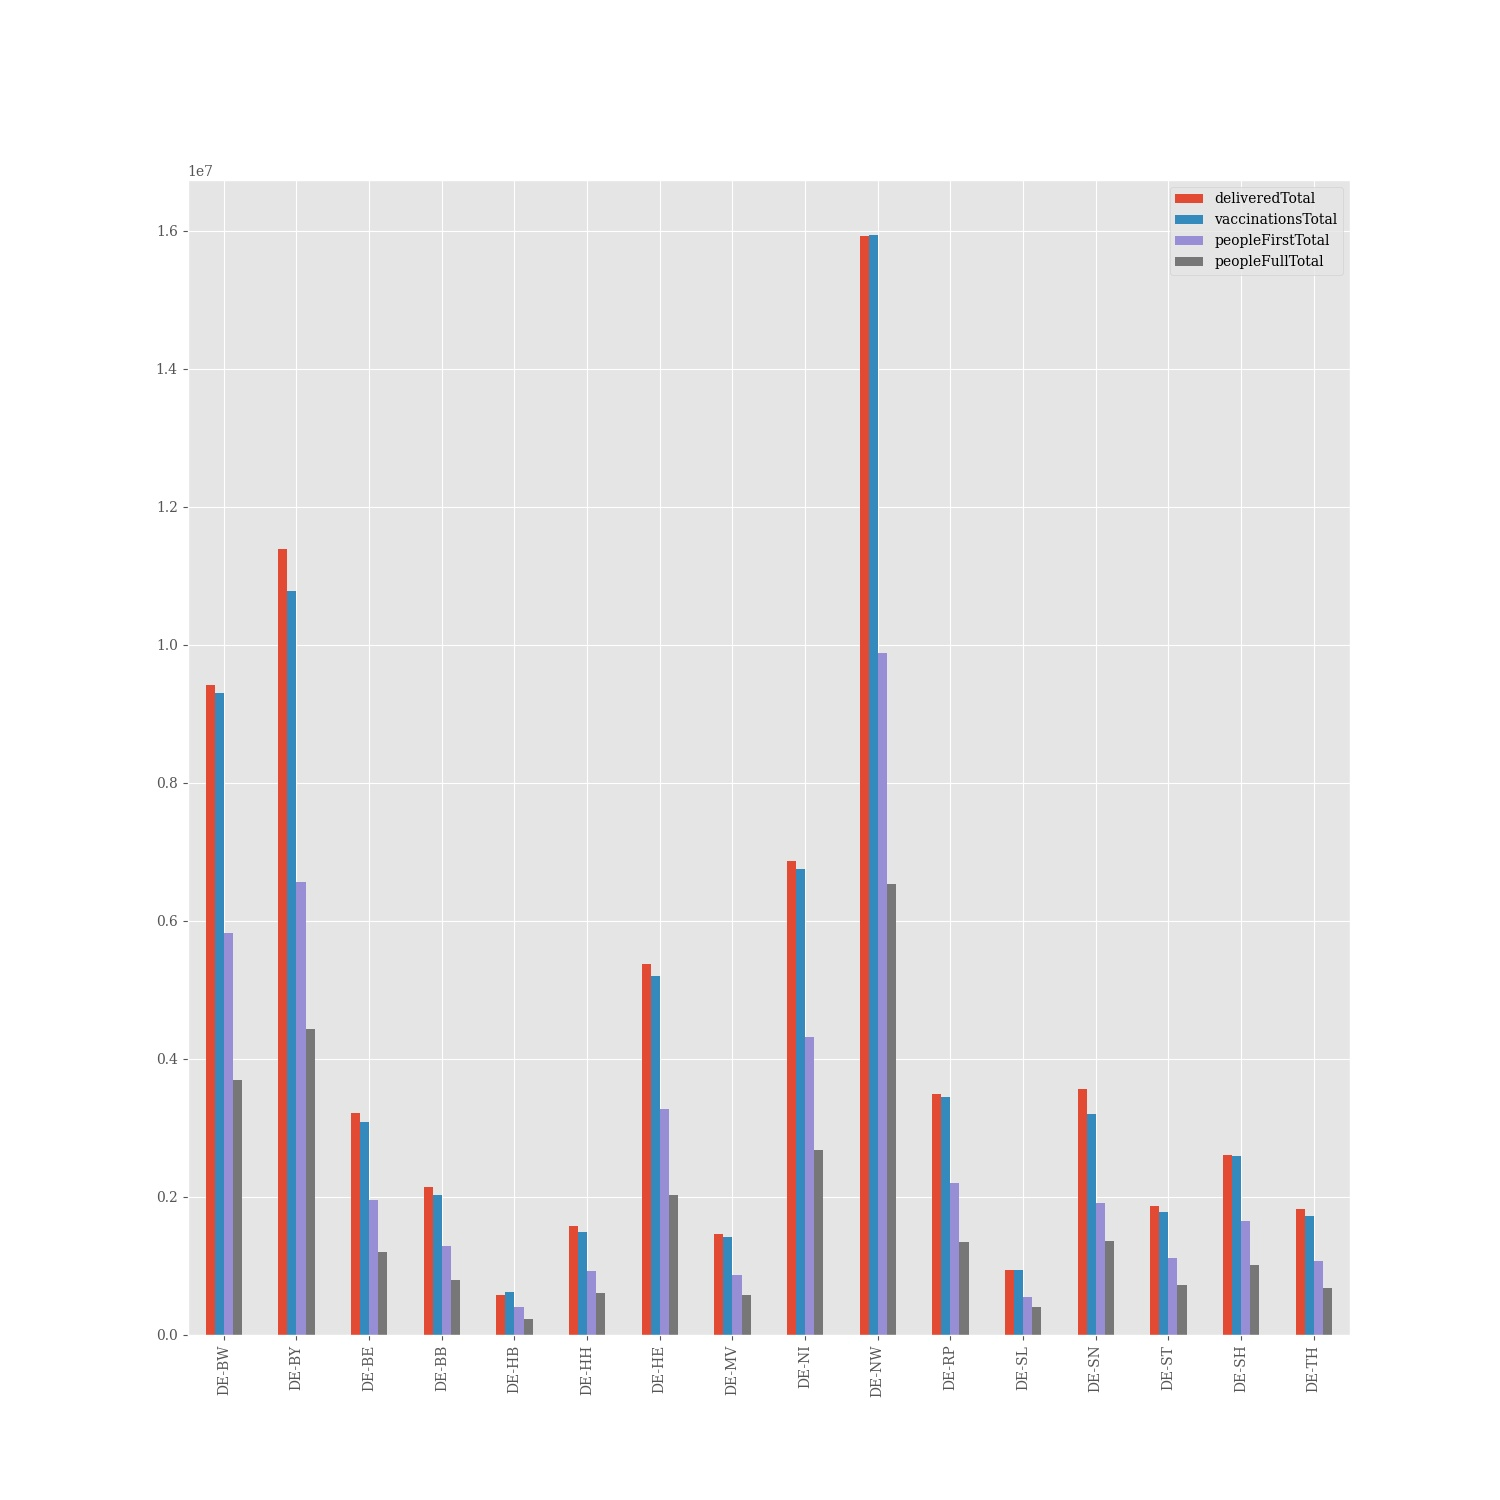
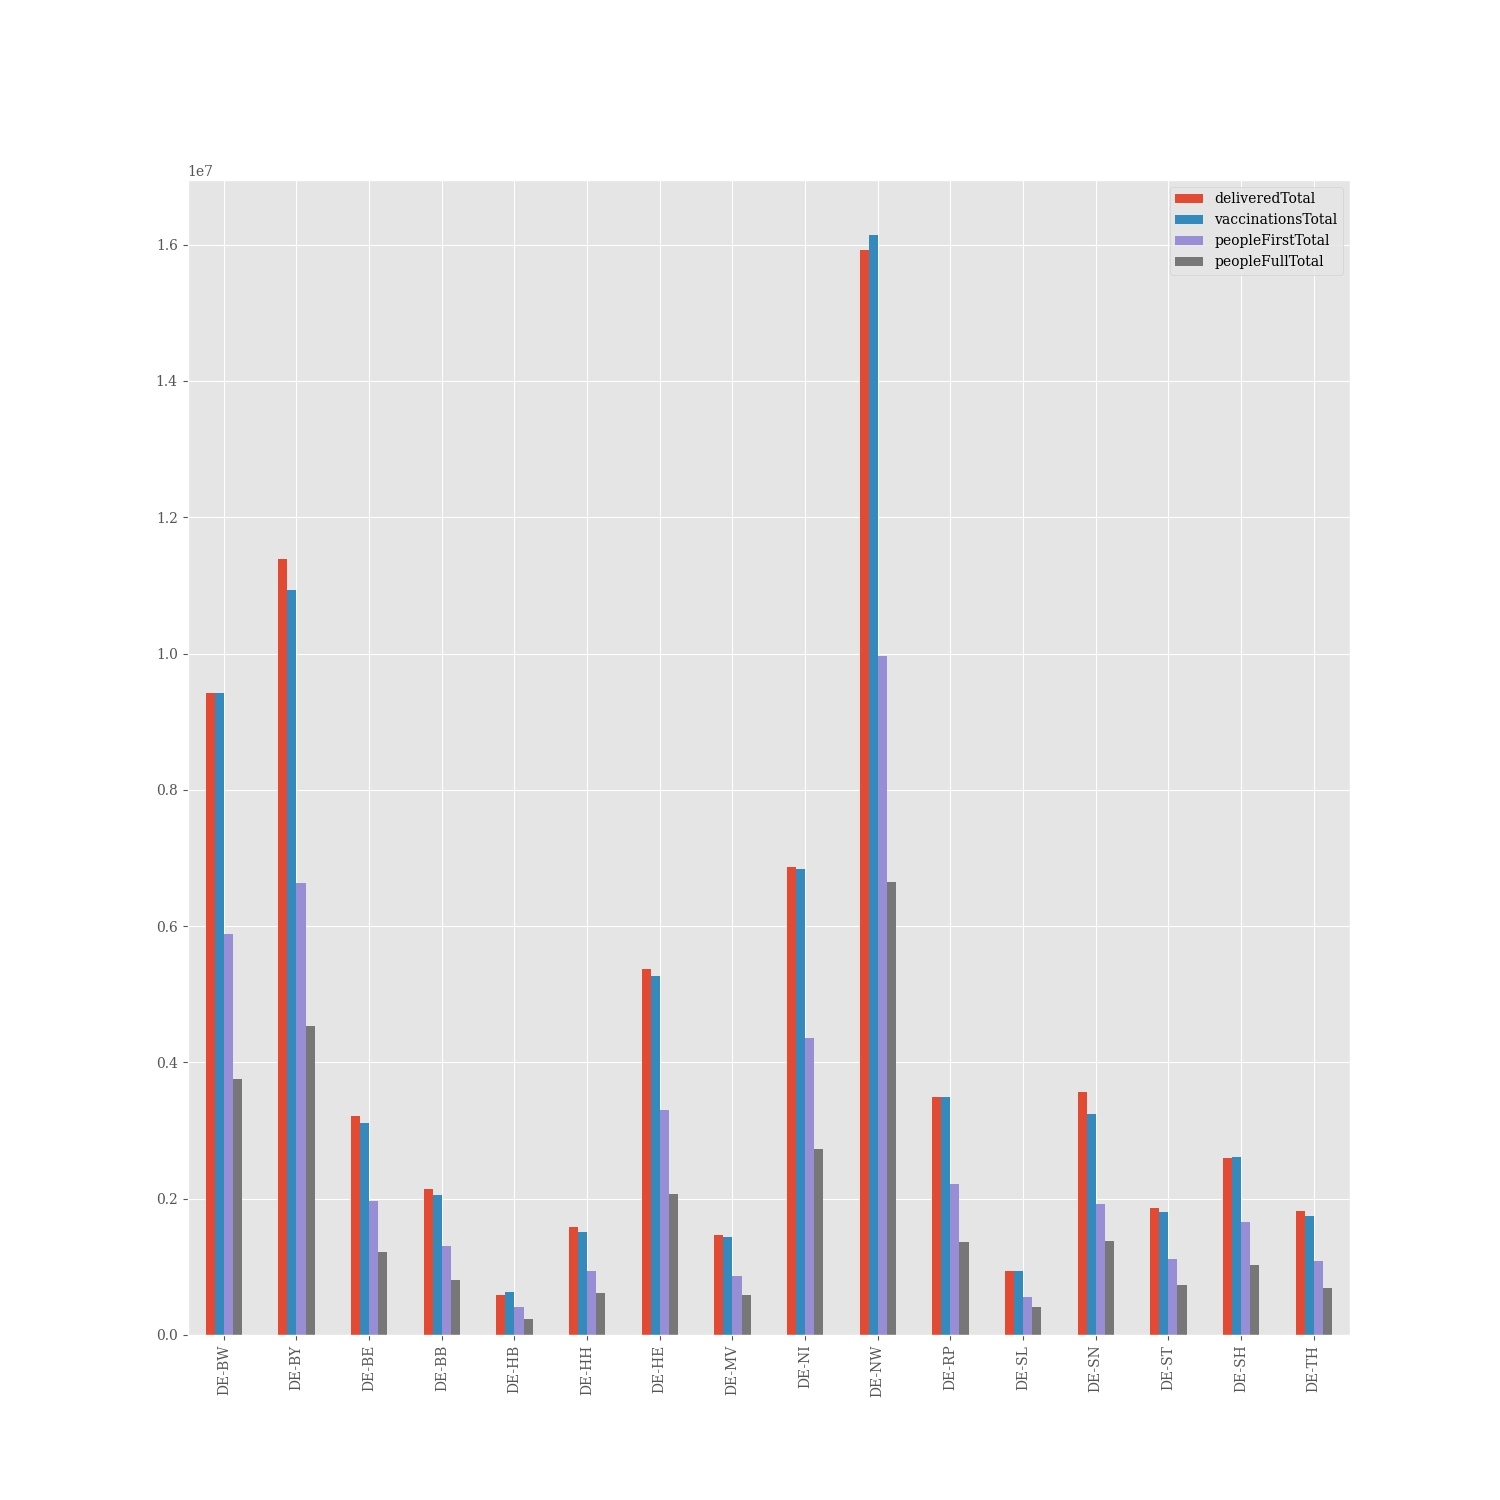
Crontab commit

Changed region(s): [[0.552, 0.1533, 0.5827, 0.184]]

diff --git a/Readme.md b/Readme.md
@@ -17,22 +17,22 @@ Astrazeneca | 10908605
 ## Bundesländer
 **Bundesland** | **Prozent von gelieferten Imfdosen verimpft**
 -------- | :--------:
-DE-BW | 98.67 %
-DE-BY | 94.69 %
-DE-BE | 95.88 %
-DE-BB | 94.82 %
-DE-HB | 105.92 %
-DE-HH | 94.59 %
-DE-HE | 96.62 %
-DE-MV | 96.57 %
-DE-NI | 98.30 %
-DE-NW | 100.08 %
-DE-RP | 98.76 %
-DE-SL | 98.97 %
-DE-SN | 89.88 %
-DE-ST | 95.78 %
-DE-SH | 99.58 %
-DE-TH | 94.63 %
+DE-BW | 99.94 %
+DE-BY | 96.07 %
+DE-BE | 97.01 %
+DE-BB | 95.88 %
+DE-HB | 107.24 %
+DE-HH | 96.12 %
+DE-HE | 97.88 %
+DE-MV | 97.56 %
+DE-NI | 99.63 %
+DE-NW | 101.36 %
+DE-RP | 100.11 %
+DE-SL | 100.16 %
+DE-SN | 90.80 %
+DE-ST | 96.84 %
+DE-SH | 100.65 %
+DE-TH | 95.50 %
 ## Graphen
 <img src="Impfungen-Corona-01.jpg" alt="Impf Übersicht" title="Impf Übersicht" />
 <img src="Impfungen-Corona-02.jpg" alt="Impfquote" title="Impf Übersicht" />
